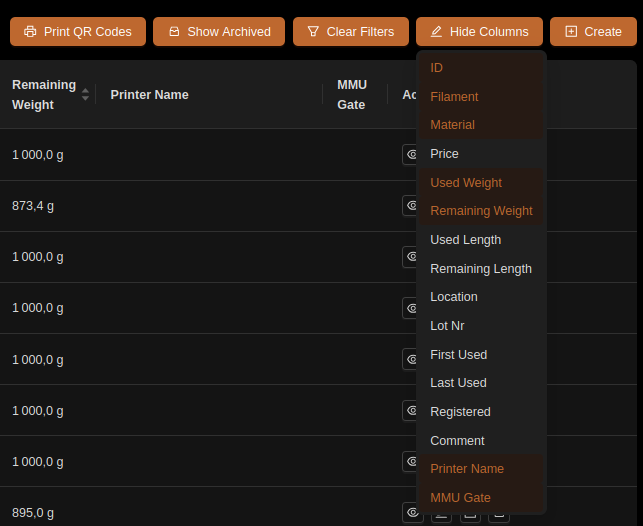
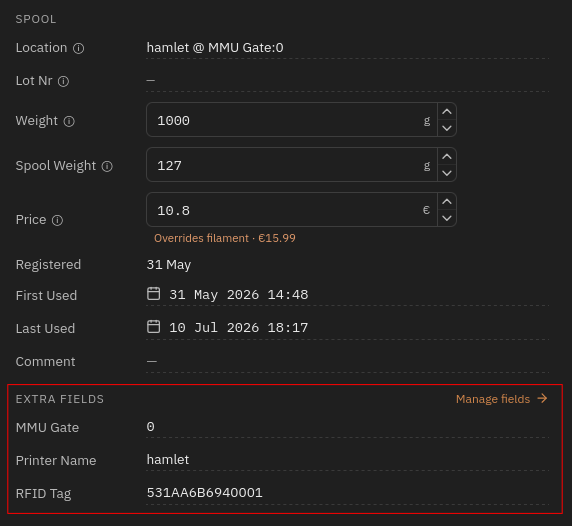
add spoolman screenshots showing the new UI

diff --git a/doc/Feature-Spoolman.md b/doc/Feature-Spoolman.md
@@ -84,11 +84,10 @@ version" message on the console). Once connected, it adds three extra
 fields to Spoolman's spool records: `Printer Name`, `MMU Gate`, and `RFID`
 (the tag UID(s) bound to that spool - a spool can carry more than one, e.g.
 a tag stuck on each side, see [NFC/RFID Reading](Feature-NFC.md)).
-They're hidden by default in the Spoolman web UI - open **Hide Columns** and
-select them to see gate assignments there:
+They show up below the spool's main data in the details view in Spoolman:
 
 <p align="center">
-  <img src="Feature-Spoolman/moonraker-extra-columns.png" alt="Spoolman's Hide Columns menu with Printer Name and MMU Gate selected" width="60%">
+  <img src="Feature-Spoolman/moonraker-extra-columns.png" alt="Spoolman's spool detail view with the new columns highlighted" width="60%">
 </p>
 
 An alternative to showing these columns is Spoolman's own "Location" field,
@@ -136,10 +135,6 @@ MMU_GATE_MAP GATE=0 SPOOLID=5          # Assign spool 5 to gate 0
 MMU_GATE_MAP GATE=0 SPOOLID=-1         # Unset gate 0's spool (other attributes can still be set manually)
 MMU_GATE_MAP NEXT_SPOOLID=45           # Auto-assign spool 45 to whichever gate is loaded/preloaded next (0 cancels)
 ```
-
-<p align="center">
-  <img src="Feature-Spoolman/gate-map-update-example.png" alt="Spoolman web interface showing a spool's Printer Name and MMU Gate after an MMU_GATE_MAP update" width="100%">
-</p>
 
 `NEXT_SPOOLID` isn't available in `pull` mode - Spoolman already owns the
 gate assignment there, so a locally-pending one has nothing to attach to;
@@ -296,12 +291,17 @@ weight) alongside each gate, and lets you edit a gate's `SpoolId` directly:
   <img src="Feature-Spoolman/klipperscreen-gate-view.png" alt="KlipperScreen Happy Hare Edition gate list showing Spoolman material, color and remaining weight per gate" width="60%">
 </p>
 
-And in Spoolman's own web UI, once the extra columns are shown (see
-[Moonraker Setup](#moonraker-setup) above), every spool's row shows which
+And in Spoolman's own web UI, every spool's row in the library view shows which
 printer and gate it's currently assigned to:
 
 <p align="center">
-  <img src="Feature-Spoolman/spoolman-web-table.png" alt="Spoolman web UI spool table with Printer Name and MMU Gate columns visible" width="100%">
+  <img src="Feature-Spoolman/spoolman-location-library.png" alt="Spoolman web UI spool library with location visible">
+</p>
+
+You can also group the dashboard by printer name:
+
+<p align="center">
+  <img src="Feature-Spoolman/spoolman-location-dashboard.png" alt="Spoolman web UI dashbord grouped by printer">
 </p>
 
 ## Tuning
